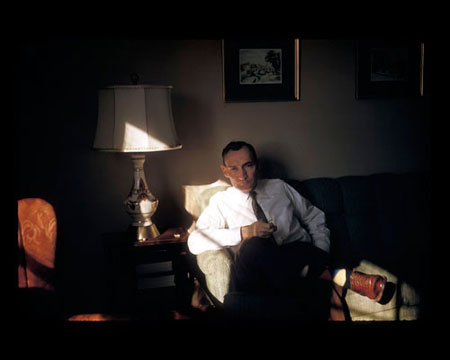
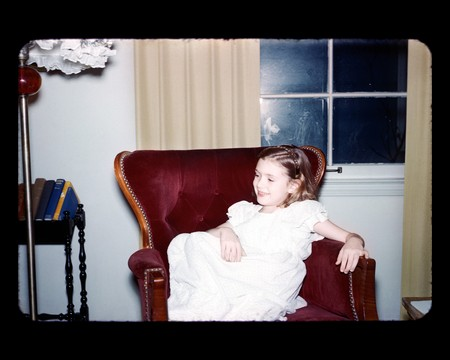
Swap Kodachrome 18, shrink the masthead's second line
The replacement is matted to the mount the other nineteen share - a 414x284
window centred in 450x360 - after trimming the black the scan arrived with,
which would otherwise have added to the frame and read thicker than the rest
of the sheet.

The 2004 annotation on that slide describes James E. Moore and the frame that
used to be there, so it does not travel with the new photograph. It is
detached pending new text; the alt is a plain description of what is visible.

Masthead: names line to half size, whole block raised.

diff --git a/moore/kodachromes.html b/moore/kodachromes.html
@@ -129,7 +129,7 @@
         <li><button class="thumb" type="button" data-n="18"
           data-full="assets/img/full/18.jpg" aria-controls="viewer"
           style="--x:360.2;--y:389.6;--w:90.9;--h:72.7">
-          <span class="shot" style="--ar:150/120"><img src="assets/img/thumb/18.jpg" width="150" height="120" alt="James Edward Moore, date unknown"></span>
+          <span class="shot" style="--ar:150/120"><img src="assets/img/thumb/18.jpg" width="150" height="120" alt="A girl in a white dress seated on a red wing chair beside a curtained window"></span>
         </button></li>
         <li><button class="thumb" type="button" data-n="19"
           data-full="assets/img/full/19.jpg" aria-controls="viewer"
@@ -160,8 +160,8 @@
 
       <a class="masthead" href="index.html"
          aria-label="moore archives, 1900 to 2004 — James E. Moore and Emily M. Moore. Back to the front page.">
-        <span class="mast-line"><span class="t f-caslon-black is-i" style="--x:12;--bl:30;--sz:13;--tr:0.809">moore</span><span class="t f-caslon-book is-i" style="--x:59.8;--bl:30;--sz:13">archives</span><span class="t f-helvetica45" style="--x:123.1;--bl:30;--sz:9">1900–2004</span></span>
-        <span class="mast-line"><span class="t f-caslon-medium" style="--x:12;--bl:44.5;--sz:11">James E. Moore </span><span class="t f-caslon-book" style="--x:94.6;--bl:44.5;--sz:11">&amp; </span><span class="t f-caslon-medium" style="--x:105.8;--bl:44.5;--sz:11">Emily M. Moore</span></span>
+        <span class="mast-line"><span class="t f-caslon-black is-i" style="--x:12;--bl:21;--sz:13;--tr:0.809">moore</span><span class="t f-caslon-book is-i" style="--x:59.8;--bl:21;--sz:13">archives</span><span class="t f-helvetica45" style="--x:123.1;--bl:21;--sz:9">1900–2004</span></span>
+        <span class="mast-line"><span class="t f-caslon-medium" style="--x:12;--bl:30.5;--sz:5.5">James E. Moore </span><span class="t f-caslon-book" style="--x:53.3;--bl:30.5;--sz:5.5">&amp; </span><span class="t f-caslon-medium" style="--x:58.9;--bl:30.5;--sz:5.5">Emily M. Moore</span></span>
       </a>
 
       <nav class="nav nav-gallery" aria-label="Collections">
@@ -196,7 +196,7 @@
            data-cx="522.2" data-cy="187.5" data-cw="166.3">
     <img src="assets/img/full/1.jpg" width="450" height="360" loading="lazy" alt="Julia Ann Moore">
     <div class="entry-text">
-      <h2>Julia Ann Moore</h2>
+    <h2>Julia Ann Moore</h2>
       <p>Black River, Michigan, c. 1957</p>
     </div>
   </article>
@@ -204,7 +204,7 @@
            data-cx="521.5" data-cy="188.1" data-cw="219.7">
     <img src="assets/img/full/2.jpg" width="450" height="360" loading="lazy" alt="Detroit, MI, 1964">
     <div class="entry-text">
-      <h2>Detroit, MI, 1964</h2>
+    <h2>Detroit, MI, 1964</h2>
       <p>View from the front porch of 16547 Coyle, the house where the family lived from 19__to 19__. This new 1964 Chevy Impala was the family car for many years and the car my mother learned to drive in 1964.</p>
     </div>
   </article>
@@ -212,7 +212,7 @@
            data-cx="522" data-cy="188.2" data-cw="205.9">
     <img src="assets/img/full/3.jpg" width="450" height="360" loading="lazy" alt="Paul Alan Moore, c. 1955">
     <div class="entry-text">
-      <h2>Paul Alan Moore, c. 1955</h2>
+    <h2>Paul Alan Moore, c. 1955</h2>
       <p>In front of the house, 16547 Coyle, possibly on Easter Sunday. The Buick probably belonged to a family member visiting that day.</p>
     </div>
   </article>
@@ -220,7 +220,7 @@
            data-cx="522" data-cy="188.1" data-cw="215.4">
     <img src="assets/img/full/4.jpg" width="450" height="360" loading="lazy" alt="Helen (Moore) Toth, c. 1955">
     <div class="entry-text">
-      <h2>Helen (Moore) Toth, c. 1955</h2>
+    <h2>Helen (Moore) Toth, c. 1955</h2>
       <p>Helping out with the dishes at 16547 Coyle. Helen would have been visiting Jim, Emily, Jimmy, Barbara and Paul possibly on Easter Sunday, with her husband Bill. My mother, Barb, remembers that this cabinet door never seemed to shut and says one of her school papers was pinned to the bulletin board.</p>
     </div>
   </article>
@@ -228,7 +228,7 @@
            data-cx="521.8" data-cy="188.2" data-cw="209.4">
     <img src="assets/img/full/5.jpg" width="450" height="360" loading="lazy" alt="Paul Alan Moore, c. 1955">
     <div class="entry-text">
-      <h2>Paul Alan Moore, c. 1955</h2>
+    <h2>Paul Alan Moore, c. 1955</h2>
       <p>All dressed up and not to happy to be posing for the picture. Probably Easter Sunday. The first family TV in the background.</p>
     </div>
   </article>
@@ -236,7 +236,7 @@
            data-cx="522" data-cy="188.2" data-cw="214.4">
     <img src="assets/img/full/6.jpg" width="450" height="360" loading="lazy" alt="Barbara Florence Moore, c. 1958">
     <div class="entry-text">
-      <h2>Barbara Florence Moore, c. 1958</h2>
+    <h2>Barbara Florence Moore, c. 1958</h2>
       <p>The dress was a hand-me-down reluctantly given to my mother by her cousin Julie, who was two years older than she. My mother never got to take ballet lessons, but loved dressing up in this costume. My grandfather had a floodlight he set up in the living room to take pictures like this.</p>
     </div>
   </article>
@@ -244,7 +244,7 @@
            data-cx="521.4" data-cy="188.1" data-cw="213.7">
     <img src="assets/img/full/7.jpg" width="450" height="360" loading="lazy" alt="Julia Ann Moore, mid 1950&#x27;s">
     <div class="entry-text">
-      <h2>Julia Ann Moore, mid 1950&#x27;s</h2>
+    <h2>Julia Ann Moore, mid 1950&#x27;s</h2>
       <p>This picture was taken in an apartment Julia shared with a friend, Grace Walburn, in Highland Park, MI near 6 Mile and Woodward. The family was visiting her that evening for dinner. A typical menu would have been lamb, mashed potatos, rutabaga, gravy &amp; mint jelly for the lamb.</p>
       <p>In the background is a photo of her son James and her first grandson, James &amp; Emily&#x27;s son Jimmy. Other items in the background, like the Toby mug, were typical decorations she liked.</p>
     </div>
@@ -253,7 +253,7 @@
            data-cx="522.1" data-cy="188.2" data-cw="207.9">
     <img src="assets/img/full/8.jpg" width="450" height="360" loading="lazy" alt="James Edward Moore, c. 1958">
     <div class="entry-text">
-      <h2>James Edward Moore, c. 1958</h2>
+    <h2>James Edward Moore, c. 1958</h2>
       <p>This picture, like several he did, was a self-portrait taken with a timer and the camera set up on a tripod. He liked experimenting with the camera and reading up on the lastest gadgets and photographic techniques.</p>
     </div>
   </article>
@@ -261,7 +261,7 @@
            data-cx="522" data-cy="188.1" data-cw="218.6">
     <img src="assets/img/full/9.jpg" width="450" height="360" loading="lazy" alt="Barbara and Paul Moore with their cousin, Karen Beth Joseph, c. 1955">
     <div class="entry-text">
-      <h2>Barbara and Paul Moore with their cousin, Karen Beth Joseph, c. 1955</h2>
+    <h2>Barbara and Paul Moore with their cousin, Karen Beth Joseph, c. 1955</h2>
       <p>Girls played in dresses back then. These dresses were most likely made by Florence Joseph, the girls&#x27; grandmother. This photo was taken in James and Emily&#x27;s bedroom in the house on Coyle.</p>
     </div>
   </article>
@@ -269,7 +269,7 @@
            data-cx="522.2" data-cy="188.1" data-cw="212.2">
     <img src="assets/img/full/10.jpg" width="450" height="360" loading="lazy" alt="James Edward Moore with his mother, Julia Ann, late 1950&#x27;s">
     <div class="entry-text">
-      <h2>James Edward Moore with his mother, Julia Ann, late 1950&#x27;s</h2>
+    <h2>James Edward Moore with his mother, Julia Ann, late 1950&#x27;s</h2>
       <p>This photo was taken at Julia&#x27;s house in Black River, MI.</p>
     </div>
   </article>
@@ -277,7 +277,7 @@
            data-cx="522" data-cy="188.1" data-cw="219.4">
     <img src="assets/img/full/11.jpg" width="450" height="360" loading="lazy" alt="Emily Marie Moore, c. 1953">
     <div class="entry-text">
-      <h2>Emily Marie Moore, c. 1953</h2>
+    <h2>Emily Marie Moore, c. 1953</h2>
       <p>This picture was taken at the home of Emily&#x27;s brother Robert and his wife Betty. Like Emily&#x27;s husband James, Bob was an avid photographer and may have taken this photo. Emily is wearing a black velvet stole she reserved for special occasions, an item her daughter Barbara always wanted to get her hands on for playing dress-up.</p>
       <p>Emily would be embarrased to see that she is smoking in this photo. She quit for good after she became a Christian in 1954.</p>
     </div>
@@ -286,7 +286,7 @@
            data-cx="522" data-cy="188.1" data-cw="215.8">
     <img src="assets/img/full/12.jpg" width="450" height="360" loading="lazy" alt="Betty Joseph, date unknown">
     <div class="entry-text">
-      <h2>Betty Joseph, date unknown</h2>
+    <h2>Betty Joseph, date unknown</h2>
       <p>Betty was the wife of Robert Joseph, Emily (Joseph) Moore&#x27;s older brother. Tragically, both Betty and her husband died of cancer inthe late 1960&#x27;s. They left behind two sons, Bobby and Warren, and a daughter, Karen.</p>
     </div>
   </article>
@@ -294,7 +294,7 @@
            data-cx="521.8" data-cy="188.1" data-cw="212.8">
     <img src="assets/img/full/13.jpg" width="450" height="360" loading="lazy" alt="Moore kids with older boys, Dyers Bay, Canada, c. 1956">
     <div class="entry-text">
-      <h2>Moore kids with older boys, Dyers Bay, Canada, c. 1956</h2>
+    <h2>Moore kids with older boys, Dyers Bay, Canada, c. 1956</h2>
       <p>Dyers Bay was a vacation spot the family visited occasionally. They rented a cottage on the shore with a woodburning stove for cooking. James would get up and start a fire with birchwood, and Emily baked apple pie.</p>
       <p>Barbara is on far left, Jimmy on far right, and Paul is closest to the water in background.</p>
     </div>
@@ -303,7 +303,7 @@
            data-cx="522.1" data-cy="188.2" data-cw="219.1">
     <img src="assets/img/full/14.jpg" width="450" height="360" loading="lazy" alt="James Edward Moore, c. 1953-4">
     <div class="entry-text">
-      <h2>James Edward Moore, c. 1953-4</h2>
+    <h2>James Edward Moore, c. 1953-4</h2>
       <p>Taken at the home of Robert Joseph on Red Leaf Lane in Southfield, MI. Photo may have been taken by Robert, James&#x27;s brother-in-law, who was also an avid photographer. Robert had a darkroom in his basement.</p>
     </div>
   </article>
@@ -311,7 +311,7 @@
            data-cx="521.8" data-cy="188.1" data-cw="209">
     <img src="assets/img/full/15.jpg" width="450" height="360" loading="lazy" alt="Moore kids in dining room with Boston Coolers, c. 1954-5">
     <div class="entry-text">
-      <h2>Moore kids in dining room with Boston Coolers, c. 1954-5</h2>
+    <h2>Moore kids in dining room with Boston Coolers, c. 1954-5</h2>
       <p>This photo was taken on a hot summer evening shortly after the street lights came on, which meant it was time to come in from playing.</p>
       <p>Boston Coolers are made from Vernor&#x27;s (a ginger ale popular in Michigan) and ice cream.</p>
     </div>
@@ -320,7 +320,7 @@
            data-cx="522.2" data-cy="198.1" data-cw="214.6">
     <img src="assets/img/full/16.jpg" width="450" height="360" loading="lazy" alt="James E. Moore cutting the turkey, Christmas, c. 1955">
     <div class="entry-text">
-      <h2>James E. Moore cutting the turkey, Christmas, c. 1955</h2>
+    <h2>James E. Moore cutting the turkey, Christmas, c. 1955</h2>
       <p>Taken at the home of Emily&#x27;s sister, Marcia (Joseph) Clark, and her husband James on Denwood in Dearborn, MI.</p>
       <p>Marcia and Jim, who didn&#x27;t have children of their own, pampered Jim and Emily&#x27;s kids with great presents. That year my mother Barbara received a large stuffed black French poodle (what every little girl wanted that year) and a little red leather overnight case.</p>
     </div>
@@ -329,24 +329,22 @@
            data-cx="521.8" data-cy="188.1" data-cw="217.4">
     <img src="assets/img/full/17.jpg" width="450" height="360" loading="lazy" alt="James Edward Moore with Paul Alan Moore c. 1956">
     <div class="entry-text">
-      <h2>James Edward Moore with Paul Alan Moore c. 1956</h2>
+    <h2>James Edward Moore with Paul Alan Moore c. 1956</h2>
       <p>In the living room on Coyle St. in Detroit. Probably taken with a tripod and self-timer.</p>
     </div>
   </article>
   <article id="slide-18" class="entry"
            data-cx="521.9" data-cy="188.2" data-cw="221.6">
-    <img src="assets/img/full/18.jpg" width="450" height="360" loading="lazy" alt="James Edward Moore, date unknown">
+    <img src="assets/img/full/18.jpg" width="450" height="360" loading="lazy" alt="A girl in a white dress seated on a red wing chair beside a curtained window">
     <div class="entry-text">
-      <h2>James Edward Moore, date unknown</h2>
-      <p>Possibly taken at the home of James&#x27;s mother-in-law, Florence Joseph, on Wisconsin St. in Detroit. Probably taken with a self-timer.</p>
-      <p>Some family members postulate he had had quite a bit to drink before taking this picture. My grandpa had a penchant for gin and tonics, so it&#x27;s a possibility.</p>
+    <h2 hidden>A girl in a white dress seated on a red wing chair beside a curtained window</h2>
     </div>
   </article>
   <article id="slide-19" class="entry"
            data-cx="519.8" data-cy="188.2" data-cw="197.4">
     <img src="assets/img/full/19.jpg" width="450" height="360" loading="lazy" alt="Paul Alan and Barbara Florence Moore, c. Detroit, c. 1955">
     <div class="entry-text">
-      <h2>Paul Alan and Barbara Florence Moore, c. Detroit, c. 1955</h2>
+    <h2>Paul Alan and Barbara Florence Moore, c. Detroit, c. 1955</h2>
       <p>In the living room on Coyle, during a pre-bedtime play session.</p>
     </div>
   </article>
@@ -354,7 +352,7 @@
            data-cx="519.8" data-cy="87" data-cw="227.9">
     <img src="assets/img/full/20.jpg" width="450" height="360" loading="lazy" alt="James Vincent Moore, c. 1959-60">
     <div class="entry-text">
-      <h2>James Vincent Moore, c. 1959-60</h2>
+    <h2>James Vincent Moore, c. 1959-60</h2>
       <p>Taken at the house on Coyle. James had a rough life, which came to an untimely end in 1998 from years of drug abuse. Although he was extremely smart, he never adjusted well to school—maybe had ADD, but back then he was just thought to be badly behaved. As a teenager, he did start to get into real trouble, and the kind of friends he hung around didn&#x27;t help. He worked sporadically as a printer and electrician and doing various other kinds of odd jobs. Because of all the problems, his relationship with his father, my grandfather, was always strained. Jimmy was his firstborn, named after his brother Vince who died during the Normandy Invasion. My grandfather made it through the war, fighting in the Pacific. Things weren&#x27;t supposed to turn out like this after such an ordeal.</p>
       <p>I remember him as a fantastic uncle. He had an active, creative mind and was always good at explaining how things worked. In the late &#x27;70s and early &#x27;80s he could build his own computer.</p>
     </div>

diff --git a/moore/1965-2004-2.html b/moore/1965-2004-2.html
@@ -144,8 +144,8 @@
 
       <a class="masthead" href="index.html"
          aria-label="moore archives, 1900 to 2004 — James E. Moore and Emily M. Moore. Back to the front page.">
-        <span class="mast-line"><span class="t f-caslon-black is-i" style="--x:12;--bl:30;--sz:13;--tr:0.809">moore</span><span class="t f-caslon-book is-i" style="--x:59.8;--bl:30;--sz:13">archives</span><span class="t f-helvetica45" style="--x:123.1;--bl:30;--sz:9">1900–2004</span></span>
-        <span class="mast-line"><span class="t f-caslon-medium" style="--x:12;--bl:44.5;--sz:11">James E. Moore </span><span class="t f-caslon-book" style="--x:94.6;--bl:44.5;--sz:11">&amp; </span><span class="t f-caslon-medium" style="--x:105.8;--bl:44.5;--sz:11">Emily M. Moore</span></span>
+        <span class="mast-line"><span class="t f-caslon-black is-i" style="--x:12;--bl:21;--sz:13;--tr:0.809">moore</span><span class="t f-caslon-book is-i" style="--x:59.8;--bl:21;--sz:13">archives</span><span class="t f-helvetica45" style="--x:123.1;--bl:21;--sz:9">1900–2004</span></span>
+        <span class="mast-line"><span class="t f-caslon-medium" style="--x:12;--bl:30.5;--sz:5.5">James E. Moore </span><span class="t f-caslon-book" style="--x:53.3;--bl:30.5;--sz:5.5">&amp; </span><span class="t f-caslon-medium" style="--x:58.9;--bl:30.5;--sz:5.5">Emily M. Moore</span></span>
       </a>
 
       <nav class="nav nav-gallery" aria-label="Collections">

diff --git a/moore/1965-2004.html b/moore/1965-2004.html
@@ -120,8 +120,8 @@
 
       <a class="masthead" href="index.html"
          aria-label="moore archives, 1900 to 2004 — James E. Moore and Emily M. Moore. Back to the front page.">
-        <span class="mast-line"><span class="t f-caslon-black is-i" style="--x:12;--bl:30;--sz:13;--tr:0.809">moore</span><span class="t f-caslon-book is-i" style="--x:59.8;--bl:30;--sz:13">archives</span><span class="t f-helvetica45" style="--x:123.1;--bl:30;--sz:9">1900–2004</span></span>
-        <span class="mast-line"><span class="t f-caslon-medium" style="--x:12;--bl:44.5;--sz:11">James E. Moore </span><span class="t f-caslon-book" style="--x:94.6;--bl:44.5;--sz:11">&amp; </span><span class="t f-caslon-medium" style="--x:105.8;--bl:44.5;--sz:11">Emily M. Moore</span></span>
+        <span class="mast-line"><span class="t f-caslon-black is-i" style="--x:12;--bl:21;--sz:13;--tr:0.809">moore</span><span class="t f-caslon-book is-i" style="--x:59.8;--bl:21;--sz:13">archives</span><span class="t f-helvetica45" style="--x:123.1;--bl:21;--sz:9">1900–2004</span></span>
+        <span class="mast-line"><span class="t f-caslon-medium" style="--x:12;--bl:30.5;--sz:5.5">James E. Moore </span><span class="t f-caslon-book" style="--x:53.3;--bl:30.5;--sz:5.5">&amp; </span><span class="t f-caslon-medium" style="--x:58.9;--bl:30.5;--sz:5.5">Emily M. Moore</span></span>
       </a>
 
       <nav class="nav nav-gallery" aria-label="Collections">

diff --git a/moore/afterthewar.html b/moore/afterthewar.html
@@ -309,8 +309,8 @@
 
       <a class="masthead" href="index.html"
          aria-label="moore archives, 1900 to 2004 — James E. Moore and Emily M. Moore. Back to the front page.">
-        <span class="mast-line"><span class="t f-caslon-black is-i" style="--x:12;--bl:30;--sz:13;--tr:0.809">moore</span><span class="t f-caslon-book is-i" style="--x:59.8;--bl:30;--sz:13">archives</span><span class="t f-helvetica45" style="--x:123.1;--bl:30;--sz:9">1900–2004</span></span>
-        <span class="mast-line"><span class="t f-caslon-medium" style="--x:12;--bl:44.5;--sz:11">James E. Moore </span><span class="t f-caslon-book" style="--x:94.6;--bl:44.5;--sz:11">&amp; </span><span class="t f-caslon-medium" style="--x:105.8;--bl:44.5;--sz:11">Emily M. Moore</span></span>
+        <span class="mast-line"><span class="t f-caslon-black is-i" style="--x:12;--bl:21;--sz:13;--tr:0.809">moore</span><span class="t f-caslon-book is-i" style="--x:59.8;--bl:21;--sz:13">archives</span><span class="t f-helvetica45" style="--x:123.1;--bl:21;--sz:9">1900–2004</span></span>
+        <span class="mast-line"><span class="t f-caslon-medium" style="--x:12;--bl:30.5;--sz:5.5">James E. Moore </span><span class="t f-caslon-book" style="--x:53.3;--bl:30.5;--sz:5.5">&amp; </span><span class="t f-caslon-medium" style="--x:58.9;--bl:30.5;--sz:5.5">Emily M. Moore</span></span>
       </a>
 
       <nav class="nav nav-gallery" aria-label="Collections">

diff --git a/moore/beforethewar.html b/moore/beforethewar.html
@@ -117,8 +117,8 @@
 
       <a class="masthead" href="index.html"
          aria-label="moore archives, 1900 to 2004 — James E. Moore and Emily M. Moore. Back to the front page.">
-        <span class="mast-line"><span class="t f-caslon-black is-i" style="--x:12;--bl:30;--sz:13;--tr:0.809">moore</span><span class="t f-caslon-book is-i" style="--x:59.8;--bl:30;--sz:13">archives</span><span class="t f-helvetica45" style="--x:123.1;--bl:30;--sz:9">1900–2004</span></span>
-        <span class="mast-line"><span class="t f-caslon-medium" style="--x:12;--bl:44.5;--sz:11">James E. Moore </span><span class="t f-caslon-book" style="--x:94.6;--bl:44.5;--sz:11">&amp; </span><span class="t f-caslon-medium" style="--x:105.8;--bl:44.5;--sz:11">Emily M. Moore</span></span>
+        <span class="mast-line"><span class="t f-caslon-black is-i" style="--x:12;--bl:21;--sz:13;--tr:0.809">moore</span><span class="t f-caslon-book is-i" style="--x:59.8;--bl:21;--sz:13">archives</span><span class="t f-helvetica45" style="--x:123.1;--bl:21;--sz:9">1900–2004</span></span>
+        <span class="mast-line"><span class="t f-caslon-medium" style="--x:12;--bl:30.5;--sz:5.5">James E. Moore </span><span class="t f-caslon-book" style="--x:53.3;--bl:30.5;--sz:5.5">&amp; </span><span class="t f-caslon-medium" style="--x:58.9;--bl:30.5;--sz:5.5">Emily M. Moore</span></span>
       </a>
 
       <nav class="nav nav-gallery" aria-label="Collections">

diff --git a/moore/early.html b/moore/early.html
@@ -126,8 +126,8 @@
 
       <a class="masthead" href="index.html"
          aria-label="moore archives, 1900 to 2004 — James E. Moore and Emily M. Moore. Back to the front page.">
-        <span class="mast-line"><span class="t f-caslon-black is-i" style="--x:12;--bl:30;--sz:13;--tr:0.809">moore</span><span class="t f-caslon-book is-i" style="--x:59.8;--bl:30;--sz:13">archives</span><span class="t f-helvetica45" style="--x:123.1;--bl:30;--sz:9">1900–2004</span></span>
-        <span class="mast-line"><span class="t f-caslon-medium" style="--x:12;--bl:44.5;--sz:11">James E. Moore </span><span class="t f-caslon-book" style="--x:94.6;--bl:44.5;--sz:11">&amp; </span><span class="t f-caslon-medium" style="--x:105.8;--bl:44.5;--sz:11">Emily M. Moore</span></span>
+        <span class="mast-line"><span class="t f-caslon-black is-i" style="--x:12;--bl:21;--sz:13;--tr:0.809">moore</span><span class="t f-caslon-book is-i" style="--x:59.8;--bl:21;--sz:13">archives</span><span class="t f-helvetica45" style="--x:123.1;--bl:21;--sz:9">1900–2004</span></span>
+        <span class="mast-line"><span class="t f-caslon-medium" style="--x:12;--bl:30.5;--sz:5.5">James E. Moore </span><span class="t f-caslon-book" style="--x:53.3;--bl:30.5;--sz:5.5">&amp; </span><span class="t f-caslon-medium" style="--x:58.9;--bl:30.5;--sz:5.5">Emily M. Moore</span></span>
       </a>
 
       <nav class="nav nav-gallery" aria-label="Collections">

diff --git a/moore/landscapes.html b/moore/landscapes.html
@@ -111,8 +111,8 @@
 
       <a class="masthead" href="index.html"
          aria-label="moore archives, 1900 to 2004 — James E. Moore and Emily M. Moore. Back to the front page.">
-        <span class="mast-line"><span class="t f-caslon-black is-i" style="--x:12;--bl:30;--sz:13;--tr:0.809">moore</span><span class="t f-caslon-book is-i" style="--x:59.8;--bl:30;--sz:13">archives</span><span class="t f-helvetica45" style="--x:123.1;--bl:30;--sz:9">1900–2004</span></span>
-        <span class="mast-line"><span class="t f-caslon-medium" style="--x:12;--bl:44.5;--sz:11">James E. Moore </span><span class="t f-caslon-book" style="--x:94.6;--bl:44.5;--sz:11">&amp; </span><span class="t f-caslon-medium" style="--x:105.8;--bl:44.5;--sz:11">Emily M. Moore</span></span>
+        <span class="mast-line"><span class="t f-caslon-black is-i" style="--x:12;--bl:21;--sz:13;--tr:0.809">moore</span><span class="t f-caslon-book is-i" style="--x:59.8;--bl:21;--sz:13">archives</span><span class="t f-helvetica45" style="--x:123.1;--bl:21;--sz:9">1900–2004</span></span>
+        <span class="mast-line"><span class="t f-caslon-medium" style="--x:12;--bl:30.5;--sz:5.5">James E. Moore </span><span class="t f-caslon-book" style="--x:53.3;--bl:30.5;--sz:5.5">&amp; </span><span class="t f-caslon-medium" style="--x:58.9;--bl:30.5;--sz:5.5">Emily M. Moore</span></span>
       </a>
 
       <nav class="nav nav-gallery" aria-label="Collections">

diff --git a/moore/negatives.html b/moore/negatives.html
@@ -120,8 +120,8 @@
 
       <a class="masthead" href="index.html"
          aria-label="moore archives, 1900 to 2004 — James E. Moore and Emily M. Moore. Back to the front page.">
-        <span class="mast-line"><span class="t f-caslon-black is-i" style="--x:12;--bl:30;--sz:13;--tr:0.809">moore</span><span class="t f-caslon-book is-i" style="--x:59.8;--bl:30;--sz:13">archives</span><span class="t f-helvetica45" style="--x:123.1;--bl:30;--sz:9">1900–2004</span></span>
-        <span class="mast-line"><span class="t f-caslon-medium" style="--x:12;--bl:44.5;--sz:11">James E. Moore </span><span class="t f-caslon-book" style="--x:94.6;--bl:44.5;--sz:11">&amp; </span><span class="t f-caslon-medium" style="--x:105.8;--bl:44.5;--sz:11">Emily M. Moore</span></span>
+        <span class="mast-line"><span class="t f-caslon-black is-i" style="--x:12;--bl:21;--sz:13;--tr:0.809">moore</span><span class="t f-caslon-book is-i" style="--x:59.8;--bl:21;--sz:13">archives</span><span class="t f-helvetica45" style="--x:123.1;--bl:21;--sz:9">1900–2004</span></span>
+        <span class="mast-line"><span class="t f-caslon-medium" style="--x:12;--bl:30.5;--sz:5.5">James E. Moore </span><span class="t f-caslon-book" style="--x:53.3;--bl:30.5;--sz:5.5">&amp; </span><span class="t f-caslon-medium" style="--x:58.9;--bl:30.5;--sz:5.5">Emily M. Moore</span></span>
       </a>
 
       <nav class="nav nav-gallery" aria-label="Collections">

diff --git a/moore/wwii.html b/moore/wwii.html
@@ -150,8 +150,8 @@
 
       <a class="masthead" href="index.html"
          aria-label="moore archives, 1900 to 2004 — James E. Moore and Emily M. Moore. Back to the front page.">
-        <span class="mast-line"><span class="t f-caslon-black is-i" style="--x:12;--bl:30;--sz:13;--tr:0.809">moore</span><span class="t f-caslon-book is-i" style="--x:59.8;--bl:30;--sz:13">archives</span><span class="t f-helvetica45" style="--x:123.1;--bl:30;--sz:9">1900–2004</span></span>
-        <span class="mast-line"><span class="t f-caslon-medium" style="--x:12;--bl:44.5;--sz:11">James E. Moore </span><span class="t f-caslon-book" style="--x:94.6;--bl:44.5;--sz:11">&amp; </span><span class="t f-caslon-medium" style="--x:105.8;--bl:44.5;--sz:11">Emily M. Moore</span></span>
+        <span class="mast-line"><span class="t f-caslon-black is-i" style="--x:12;--bl:21;--sz:13;--tr:0.809">moore</span><span class="t f-caslon-book is-i" style="--x:59.8;--bl:21;--sz:13">archives</span><span class="t f-helvetica45" style="--x:123.1;--bl:21;--sz:9">1900–2004</span></span>
+        <span class="mast-line"><span class="t f-caslon-medium" style="--x:12;--bl:30.5;--sz:5.5">James E. Moore </span><span class="t f-caslon-book" style="--x:53.3;--bl:30.5;--sz:5.5">&amp; </span><span class="t f-caslon-medium" style="--x:58.9;--bl:30.5;--sz:5.5">Emily M. Moore</span></span>
       </a>
 
       <nav class="nav nav-gallery" aria-label="Collections">

diff --git a/moore/about.html b/moore/about.html
@@ -58,8 +58,8 @@
 
       <a class="masthead" href="index.html"
          aria-label="moore archives, 1900 to 2004 — James E. Moore and Emily M. Moore. Back to the front page.">
-        <span class="mast-line"><span class="t f-caslon-black is-i" style="--x:12;--bl:30;--sz:13;--tr:0.809">moore</span><span class="t f-caslon-book is-i" style="--x:59.8;--bl:30;--sz:13">archives</span><span class="t f-helvetica45" style="--x:123.1;--bl:30;--sz:9">1900–2004</span></span>
-        <span class="mast-line"><span class="t f-caslon-medium" style="--x:12;--bl:44.5;--sz:11">James E. Moore </span><span class="t f-caslon-book" style="--x:94.6;--bl:44.5;--sz:11">&amp; </span><span class="t f-caslon-medium" style="--x:105.8;--bl:44.5;--sz:11">Emily M. Moore</span></span>
+        <span class="mast-line"><span class="t f-caslon-black is-i" style="--x:12;--bl:21;--sz:13;--tr:0.809">moore</span><span class="t f-caslon-book is-i" style="--x:59.8;--bl:21;--sz:13">archives</span><span class="t f-helvetica45" style="--x:123.1;--bl:21;--sz:9">1900–2004</span></span>
+        <span class="mast-line"><span class="t f-caslon-medium" style="--x:12;--bl:30.5;--sz:5.5">James E. Moore </span><span class="t f-caslon-book" style="--x:53.3;--bl:30.5;--sz:5.5">&amp; </span><span class="t f-caslon-medium" style="--x:58.9;--bl:30.5;--sz:5.5">Emily M. Moore</span></span>
       </a>
 
       <nav class="nav nav-gallery" aria-label="Collections">

diff --git a/moore/bios.html b/moore/bios.html
@@ -76,8 +76,8 @@
 
       <a class="masthead" href="index.html"
          aria-label="moore archives, 1900 to 2004 — James E. Moore and Emily M. Moore. Back to the front page.">
-        <span class="mast-line"><span class="t f-caslon-black is-i" style="--x:12;--bl:30;--sz:13;--tr:0.809">moore</span><span class="t f-caslon-book is-i" style="--x:59.8;--bl:30;--sz:13">archives</span><span class="t f-helvetica45" style="--x:123.1;--bl:30;--sz:9">1900–2004</span></span>
-        <span class="mast-line"><span class="t f-caslon-medium" style="--x:12;--bl:44.5;--sz:11">James E. Moore </span><span class="t f-caslon-book" style="--x:94.6;--bl:44.5;--sz:11">&amp; </span><span class="t f-caslon-medium" style="--x:105.8;--bl:44.5;--sz:11">Emily M. Moore</span></span>
+        <span class="mast-line"><span class="t f-caslon-black is-i" style="--x:12;--bl:21;--sz:13;--tr:0.809">moore</span><span class="t f-caslon-book is-i" style="--x:59.8;--bl:21;--sz:13">archives</span><span class="t f-helvetica45" style="--x:123.1;--bl:21;--sz:9">1900–2004</span></span>
+        <span class="mast-line"><span class="t f-caslon-medium" style="--x:12;--bl:30.5;--sz:5.5">James E. Moore </span><span class="t f-caslon-book" style="--x:53.3;--bl:30.5;--sz:5.5">&amp; </span><span class="t f-caslon-medium" style="--x:58.9;--bl:30.5;--sz:5.5">Emily M. Moore</span></span>
       </a>
 
       <nav class="nav nav-gallery" aria-label="Collections">

diff --git a/moore/README.md b/moore/README.md
@@ -1,5 +1,11 @@
 # moore archives — 2004 Flash site, rebuilt for the web
 
+> **Picking this up cold?** Start with [`../CLAUDE.md`](../CLAUDE.md) — it
+> covers how the project evolved, the traps in the type and the image
+> pipeline, and how to do the editing and image-replacement jobs that keep
+> coming up. This file is the narrower question of what the 2004 original
+> contained versus what was added, and why.
+
 A faithful recreation of the Flash site in this directory's parent
 (`shell.swf` and `kodachromes/kodachromes.swf`, authored November 2004,
 Flash Player 7 / ActionScript 2) as a static HTML/CSS/JS site.
